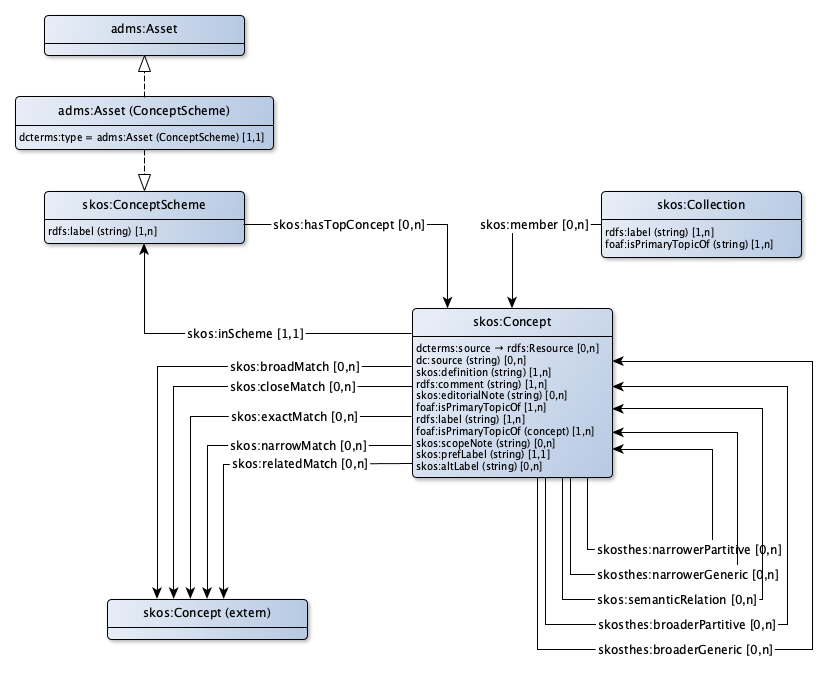
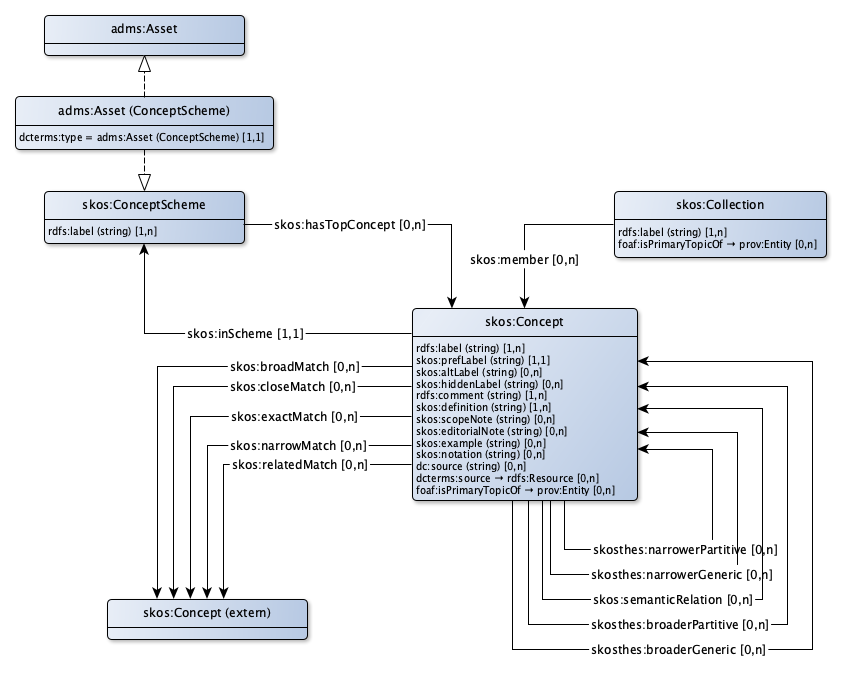
Fixed skos

diff --git a/profiles/skos-ap-sc.md b/profiles/skos-ap-sc.md
@@ -51,10 +51,17 @@ Voor het beschrijven van begrippen wordt SKOS gebruikt. SKOS staat in Nederland 
 |Gebruikte term|[skos:Concept](http://www.w3.org/2004/02/skos/core#Concept)
 |Uitleg|Een begrip is een idee of notitie, een eenheid van denken, een onderwerp van gesprek.
 |Voorbeeld|het begrip 'Perceel' in de BRK
-|Eigenschappen en relaties|[lijkt op breder](#Concept_broadlyMatches), [vergelijkbaar met](#Concept_closelyMatches), [uitleg](#Concept_comment), [bestaat uit](#Concept_consistsOf), [geschreven bron](#Concept_dcsource), [bron op het web](#Concept_dctsource), [definitie](#Concept_definition), [domein](#Concept_domain), [redactionele opmerking](#Concept_editorialNote), [exact gelijk aan](#Concept_exactlyMatches), [generalisatie van](#Concept_generalisationOf), [gerelateerd aan](#Concept_isRelatedTo), [label](#Concept_label), [lijkt op smaller](#Concept_narrowlyMatches), [onderdeel van](#Concept_partOf), [voorkeursterm](#Concept_prefLabel), [herkomst](#Concept_provenance), [toelichting](#Concept_scopeNote), [gerelateerd aan](#Concept_seeAlso), [specialisatie van](#Concept_specialisationOf), [alternatieve aanduiding](#Concept_synonym)
+|Eigenschappen en relaties|[alternatieve aanduiding](#Concept_altLabel), [lijkt op breder](#Concept_broadlyMatches), [vergelijkbaar met](#Concept_closelyMatches), [uitleg](#Concept_comment), [bestaat uit](#Concept_consistsOf), [bron](#Concept_dcsource), [bronverwijzing](#Concept_dctsource), [definitie](#Concept_definition), [domein](#Concept_domain), [redactionele opmerking](#Concept_editorialNote), [exact gelijk aan](#Concept_exactlyMatches), [voorbeeld](#Concept_example), [generalisatie van](#Concept_generalisationOf), [overige zoektermen](#Concept_hiddenLabel), [gerelateerd aan](#Concept_isRelatedTo), [label](#Concept_label), [lijkt op smaller](#Concept_narrowlyMatches), [Notatie (code)](#Concept_notation), [onderdeel van](#Concept_partOf), [voorkeursterm](#Concept_prefLabel), [herkomst](#Concept_provenance), [toelichting](#Concept_scopeNote), [gerelateerd aan](#Concept_seeAlso), [specialisatie van](#Concept_specialisationOf)
 
 
 ### Eigenschappen
+
+|!form data#Concept_altLabel!Eigenschap|alternatieve aanduiding
+|----------|------
+|Gebruikte term|[skos:altLabel](http://www.w3.org/2004/02/skos/core#altLabel)
+|Datatype|[Tekst](http://www.w3.org/2001/XMLSchema#string)
+|Uitleg|Een begrip kan een alternatieve aanduiding, een synoniem hebben
+|Voorbeeld|KadastraalPerceel
 
 |!form data#Concept_comment!Eigenschap|uitleg
 |----------|------
@@ -64,7 +71,7 @@ Voor het beschrijven van begrippen wordt SKOS gebruikt. SKOS staat in Nederland 
 |Voorbeeld|Een perceel is een stuk grond waarvan het Kadaster de grenzen heeft gemeten en dat bij het Kadaster een eigen nummer heeft.
 |Min card.|1
 
-|!form data#Concept_dcsource!Eigenschap|geschreven bron
+|!form data#Concept_dcsource!Eigenschap|bron
 |----------|------
 |Gebruikte term|[dc:source](http://purl.org/dc/elements/1.1/source)
 |Datatype|[Tekst](http://www.w3.org/2001/XMLSchema#string)
@@ -86,6 +93,20 @@ Voor het beschrijven van begrippen wordt SKOS gebruikt. SKOS staat in Nederland 
 |Uitleg|Een begrip kan een redactionele opmerking hebben.
 |Voorbeeld|Dit begrip wordt nog gewijzigd bij het invoeringsbesluit.
 
+|!form data#Concept_example!Eigenschap|voorbeeld
+|----------|------
+|Gebruikte term|[skos:example](http://www.w3.org/2004/02/skos/core#example)
+|Datatype|[Tekst](http://www.w3.org/2001/XMLSchema#string)
+|Uitleg|Een voorbeeld van het betreffende begrip
+|Voorbeeld|Pand
+
+|!form data#Concept_hiddenLabel!Eigenschap|overige zoektermen
+|----------|------
+|Gebruikte term|[skos:hiddenLabel](http://www.w3.org/2004/02/skos/core#hiddenLabel)
+|Datatype|[Tekst](http://www.w3.org/2001/XMLSchema#string)
+|Uitleg|Een begrip kan aanvullende zoektermen hebben. Deze zijn normaal niet zichtbaar, maar leiden wel tot het betreffende begrip als er naar wordt gezocht
+|Voorbeeld|Panden (bij het begrip Pand), of Belgie (bij het begrip België)
+
 |!form data#Concept_label!Eigenschap|label
 |----------|------
 |Gebruikte term|[rdfs:label](http://www.w3.org/2000/01/rdf-schema#label)
@@ -93,6 +114,13 @@ Voor het beschrijven van begrippen wordt SKOS gebruikt. SKOS staat in Nederland 
 |Uitleg|Een begrip wordt aangeduid met een voor mensen leesbare term (inclusief spaties en diacrieten). Deze is gelijk aan het skos:prefLabel. Uitzondering hierop is de situatie dat binnen 1 conceptschema er vaker dezelfde skos:prefLabel wordt gebruikt. Dit is geen good practice en dient zoveel mogelijk voorkomen te worden. In het geval dat dit toch voorkomt, krijgt het rdfs:label een toevoeging tussen haakjes die het onderscheid aangeeft. Dit label kan meertalig zijn, aangegeven door @nl of @en
 |Voorbeeld|"Kadastraal perceel"@nl / "Cadastral parcel"@en
 |Min card.|1
+
+|!form data#Concept_notation!Eigenschap|Notatie (code)
+|----------|------
+|Gebruikte term|[skos:notation](http://www.w3.org/2004/02/skos/core#notation)
+|Datatype|[Tekst](http://www.w3.org/2001/XMLSchema#string)
+|Uitleg|Een code die overeen komt met het begrip
+|Voorbeeld|AU (bij het begrip 'Goud', de chemische notatie)
 
 |!form data#Concept_prefLabel!Eigenschap|voorkeursterm
 |----------|------
@@ -109,13 +137,6 @@ Voor het beschrijven van begrippen wordt SKOS gebruikt. SKOS staat in Nederland 
 |Datatype|[Tekst](http://www.w3.org/2001/XMLSchema#string)
 |Uitleg|Een begrip kan nader worden toegelicht.
 |Voorbeeld|Een perceel is een (2D) vlakvormig ruimtelijk object dat "opdelend" van structuur is. Dit betekent dat Nederland altijd naadloos en volledig is bedekt met perceelsvlakken, die elkaar niet mogen overlappen.
-
-|!form data#Concept_synonym!Eigenschap|alternatieve aanduiding
-|----------|------
-|Gebruikte term|[skos:altLabel](http://www.w3.org/2004/02/skos/core#altLabel)
-|Datatype|[Tekst](http://www.w3.org/2001/XMLSchema#string)
-|Uitleg|Een begrip kan een alternatieve aanduiding, een synoniem hebben
-|Voorbeeld|KadastraalPerceel
 
 
 ### Relaties
@@ -141,7 +162,7 @@ Voor het beschrijven van begrippen wordt SKOS gebruikt. SKOS staat in Nederland 
 |Uitleg|Een begrip kan kan gaan over een aantal onderdelen.
 |Voorbeeld|Een schip bestaat uit een romp, kajuit, motor, ... 
 
-|!form data#Concept_dctsource!Eigenschap|bron op het web
+|!form data#Concept_dctsource!Eigenschap|bronverwijzing
 |----------|------
 |Gebruikte term|[dcterms:source](http://purl.org/dc/terms/source)
 |Verwijst naar|[rdfs:Resource](#Resource)
@@ -198,7 +219,6 @@ Voor het beschrijven van begrippen wordt SKOS gebruikt. SKOS staat in Nederland 
 |Verwijst naar|[prov:Entity](#Entity)
 |Uitleg|Van een begrip kan de herkomst worden beschreven.
 |Voorbeeld|Op basis van de nieuwe wet op de BAG is de definitie van het begrip 'verblijfsobject' aangepast.
-|Min card.|1
 
 |!form data#Concept_seeAlso!Eigenschap|gerelateerd aan
 |----------|------
@@ -251,7 +271,6 @@ Voor het beschrijven van begrippen wordt SKOS gebruikt. SKOS staat in Nederland 
 |Verwijst naar|[prov:Entity](#Entity)
 |Uitleg|Van een collectie kan de herkomst worden beschreven.
 |Voorbeeld|Op basis van de nieuwe wet op de BAG is een aantal begrippen toegevoegd aan de collectie 'aard gebruik'
-|Min card.|1
 
 
 ## Begrip (external)
@@ -271,7 +290,7 @@ Een begrippenkader kan gezien worden als een asset. Deze Asset betreft een Datas
 
 |!form data#AssetConceptScheme!Klasse|Asset (Begrippenkader)
 |----------|------
-|Getypeerd als|[skos:ConceptScheme](http://www.w3.org/2004/02/skos/core#ConceptScheme), [adms:Asset](http://www.w3.org/ns/adms#Asset)
+|Getypeerd als|[adms:Asset](http://www.w3.org/ns/adms#Asset), [skos:ConceptScheme](http://www.w3.org/2004/02/skos/core#ConceptScheme)
 |Uitleg|Een begrippenkader kan worden gezien als een asset.
 |Voorbeeld|De thesaurus of taxonomie met alle begrippen in het Kadastrale domein kunnen worden gezien als asset voor de BRK dataset.
 |Eigenschappen en relaties|[type asset = Begrippenkader](#AssetConceptScheme_typeConceptScheme)
@@ -284,7 +303,6 @@ Een begrippenkader kan gezien worden als een asset. Deze Asset betreft een Datas
 |Gebruikte term|[dcterms:type](http://purl.org/dc/terms/type)
 |Waarde|[Asset (Begrippenkader)](http://bp4mc2.org/profiles/skos-ap-sc#AssetConceptScheme)
 |Uitleg|Een begrippenkader wordt expliciet getypeerd als begrippenkader.
-|Voorbeeld|
 |Min card.|1
 |Max card.|1
 

diff --git a/profiles/en/skos-ap-sc.md b/profiles/en/skos-ap-sc.md
@@ -48,10 +48,16 @@ SKOS is used to describe concepts. SKOS is a standard on the appy-or-explain lis
 |----------|------
 |Used term|[skos:Concept](http://www.w3.org/2004/02/skos/core#Concept)
 |Description|A  concept is an idea or notion, a unit of thought, a topic in the universe of discourse.
-|Properties en relations|[broadly matches with](#Concept_broadlyMatches), [closely matches with](#Concept_closelyMatches), [comment](#Concept_comment), [consists of](#Concept_consistsOf), [written source](#Concept_dcsource), [source on the web](#Concept_dctsource), [definition](#Concept_definition), [domain](#Concept_domain), [editorial note](#Concept_editorialNote), [exactly matches with](#Concept_exactlyMatches), [generalization of](#Concept_generalisationOf), [related to](#Concept_isRelatedTo), [label](#Concept_label), [narrowly matches with](#Concept_narrowlyMatches), [part of](#Concept_partOf), [preferred label](#Concept_prefLabel), [provenance](#Concept_provenance), [scope note](#Concept_scopeNote), [related to](#Concept_seeAlso), [specialization of](#Concept_specialisationOf), [alternative label](#Concept_synonym)
+|Properties en relations|[alternative label](#Concept_altLabel), [broadly matches with](#Concept_broadlyMatches), [closely matches with](#Concept_closelyMatches), [comment](#Concept_comment), [consists of](#Concept_consistsOf), [source](#Concept_dcsource), [source reference](#Concept_dctsource), [definition](#Concept_definition), [domain](#Concept_domain), [editorial note](#Concept_editorialNote), [exactly matches with](#Concept_exactlyMatches), [example](#Concept_example), [generalization of](#Concept_generalisationOf), [other search labels](#Concept_hiddenLabel), [related to](#Concept_isRelatedTo), [label](#Concept_label), [narrowly matches with](#Concept_narrowlyMatches), [Notation (code)](#Concept_notation), [part of](#Concept_partOf), [preferred label](#Concept_prefLabel), [provenance](#Concept_provenance), [scope note](#Concept_scopeNote), [related to](#Concept_seeAlso), [specialization of](#Concept_specialisationOf)
 
 
 ### Properties
+
+|!form data#Concept_altLabel!Eigenschap|alternative label
+|----------|------
+|Used term|[skos:altLabel](http://www.w3.org/2004/02/skos/core#altLabel)
+|Datatype|[Text](http://www.w3.org/2001/XMLSchema#string)
+|Description|A concept can have an alternative label, a synonym
 
 |!form data#Concept_comment!Eigenschap|comment
 |----------|------
@@ -60,7 +66,7 @@ SKOS is used to describe concepts. SKOS is a standard on the appy-or-explain lis
 |Description|Preferably a concept has a comment in 'clear language'.
 |Min card.|1
 
-|!form data#Concept_dcsource!Eigenschap|written source
+|!form data#Concept_dcsource!Eigenschap|source
 |----------|------
 |Used term|[dc:source](http://purl.org/dc/elements/1.1/source)
 |Datatype|[Text](http://www.w3.org/2001/XMLSchema#string)
@@ -79,12 +85,32 @@ SKOS is used to describe concepts. SKOS is a standard on the appy-or-explain lis
 |Datatype|[Text](http://www.w3.org/2001/XMLSchema#string)
 |Description|A concept can have an editorial comment.
 
+|!form data#Concept_example!Eigenschap|example
+|----------|------
+|Used term|[skos:example](http://www.w3.org/2004/02/skos/core#example)
+|Datatype|[Text](http://www.w3.org/2001/XMLSchema#string)
+|Description|An example of the corresponding concept
+
+|!form data#Concept_hiddenLabel!Eigenschap|other search labels
+|----------|------
+|Used term|[skos:hiddenLabel](http://www.w3.org/2004/02/skos/core#hiddenLabel)
+|Datatype|[Text](http://www.w3.org/2001/XMLSchema#string)
+|Description|A concept can have other search labels. These labels are normally not visible, but when search for, the corresponding concept will be found
+|Example|Panden (bij het begrip Pand), of Belgie (bij het begrip België)
+
 |!form data#Concept_label!Eigenschap|label
 |----------|------
 |Used term|[rdfs:label](http://www.w3.org/2000/01/rdf-schema#label)
 |Datatype|[Text](http://www.w3.org/2001/XMLSchema#string)
 |Description|A concept has a human-readable label (including spaces and diacritics). This is equal to the skos: prefLabel. An exception to this is the situation that within one concept scheme the same skos:prefLabel is used more than once. This is not a good practice and should be avoided as much as possible. In case this occurs nonetheless, the rdfs: label gets an addition between brackets that indicates the distinction. This label can be multilingual, indicated by @nl or @en
 |Min card.|1
+
+|!form data#Concept_notation!Eigenschap|Notation (code)
+|----------|------
+|Used term|[skos:notation](http://www.w3.org/2004/02/skos/core#notation)
+|Datatype|[Text](http://www.w3.org/2001/XMLSchema#string)
+|Description|A code that corresponds to the concept
+|Example|AU (bij het begrip 'Goud', de chemische notatie)
 
 |!form data#Concept_prefLabel!Eigenschap|preferred label
 |----------|------
@@ -99,12 +125,6 @@ SKOS is used to describe concepts. SKOS is a standard on the appy-or-explain lis
 |Used term|[skos:scopeNote](http://www.w3.org/2004/02/skos/core#scopeNote)
 |Datatype|[Text](http://www.w3.org/2001/XMLSchema#string)
 |Description|A concept can be explained.
-
-|!form data#Concept_synonym!Eigenschap|alternative label
-|----------|------
-|Used term|[skos:altLabel](http://www.w3.org/2004/02/skos/core#altLabel)
-|Datatype|[Text](http://www.w3.org/2001/XMLSchema#string)
-|Description|A concept can have an alternative label, a synonym
 
 
 ### Relations
@@ -127,7 +147,7 @@ SKOS is used to describe concepts. SKOS is a standard on the appy-or-explain lis
 |Refers to|[skos:Concept](#Concept)
 |Description|A concept can be about several parts.
 
-|!form data#Concept_dctsource!Eigenschap|source on the web
+|!form data#Concept_dctsource!Eigenschap|source reference
 |----------|------
 |Used term|[dcterms:source](http://purl.org/dc/terms/source)
 |Refers to|[rdfs:Resource](#Resource)
@@ -177,7 +197,6 @@ SKOS is used to describe concepts. SKOS is a standard on the appy-or-explain lis
 |Refers to|[prov:Entity](#Entity)
 |Description|Provenance of a concept can be described.
 |Example|Op basis van de nieuwe wet op de BAG is de definitie van het begrip 'verblijfsobject' aangepast.
-|Min card.|1
 
 |!form data#Concept_seeAlso!Eigenschap|related to
 |----------|------
@@ -227,7 +246,6 @@ SKOS is used to describe concepts. SKOS is a standard on the appy-or-explain lis
 |Refers to|[prov:Entity](#Entity)
 |Description|Provenance of a collection can be described.
 |Example|Op basis van de nieuwe wet op de BAG is een aantal begrippen toegevoegd aan de collectie 'aard gebruik'
-|Min card.|1
 
 
 ## Concept
@@ -242,7 +260,7 @@ SKOS is used to describe concepts. SKOS is a standard on the appy-or-explain lis
 
 |!form data#AssetConceptScheme!Klasse|Asset (ConceptScheme)
 |----------|------
-|Typed as|[adms:Asset](http://www.w3.org/ns/adms#Asset), [skos:ConceptScheme](http://www.w3.org/2004/02/skos/core#ConceptScheme)
+|Typed as|[skos:ConceptScheme](http://www.w3.org/2004/02/skos/core#ConceptScheme), [adms:Asset](http://www.w3.org/ns/adms#Asset)
 |Description|A concept scheme can be identified as an asset.
 |Properties en relations|[type asset = Concept scheme](#AssetConceptScheme_typeConceptScheme)
 

diff --git a/profiles/frbr-ap-sc.md b/profiles/frbr-ap-sc.md
@@ -19,7 +19,6 @@ Het FRBR toepassingsprofiel maakt het mogelijk te verwijzen naar:
 |!form data#Concept_dctsource!Eigenschap|bron op het web
 |----------|------
 |Gebruikte term|[dcterms:source](http://purl.org/dc/terms/source)
-|Relatie met|b466832
 |Uitleg|Een begrip kan zijn ontleend aan een op het web vindbare bron. Dit kan een (versie van) een beschrijving van een specifiek begrip of een document waarin een beschrijving van het begrip is te vinden.
 |Voorbeeld|<jci1.3:c:BWBR0005416&titel=IV&hoofdstuk=XV&paragraaf=3&artikel=222>
 
@@ -107,5 +106,3 @@ Het FRBR toepassingsprofiel maakt het mogelijk te verwijzen naar:
 
 
 Een document, algemeen bibliografische resourcewerk op het web (work) of specifieke versie van een bibliografische resource op het web (expression) heeft een uri die gemunt is door degene die het document of de resource publiceert. In een stelselcatalogus worden hiervoor geen uri's gemunt.
-
-

diff --git a/profiles/en/frbr-ap-sc.md b/profiles/en/frbr-ap-sc.md
@@ -19,7 +19,6 @@ The FRBR application profile makes it possible to refer to:
 |!form data#Concept_dctsource!Eigenschap|source on the web
 |----------|------
 |Used term|[dcterms:source](http://purl.org/dc/terms/source)
-|Related with|b466832
 |Description|A concept can be derived from a source that can be found on the web. This can be a (version of) a description of a specific concept or a document in which a description of the concept can be found.
 
 
@@ -100,5 +99,3 @@ The FRBR application profile makes it possible to refer to:
 
 
 A document, general bibliographic resource on the web (work) or specific version of a bibliographic resource on the web (expression) has a uri that is minted by the publisher of the resource. In a system catalog no uri's are minted for this resources.
-
-
